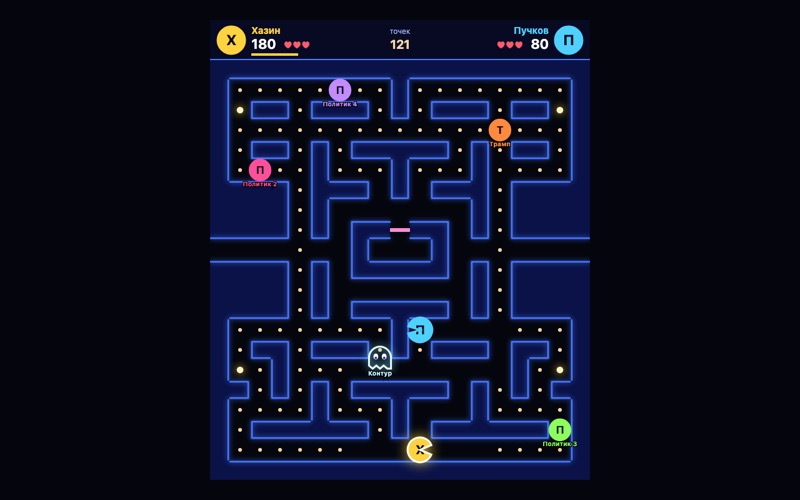
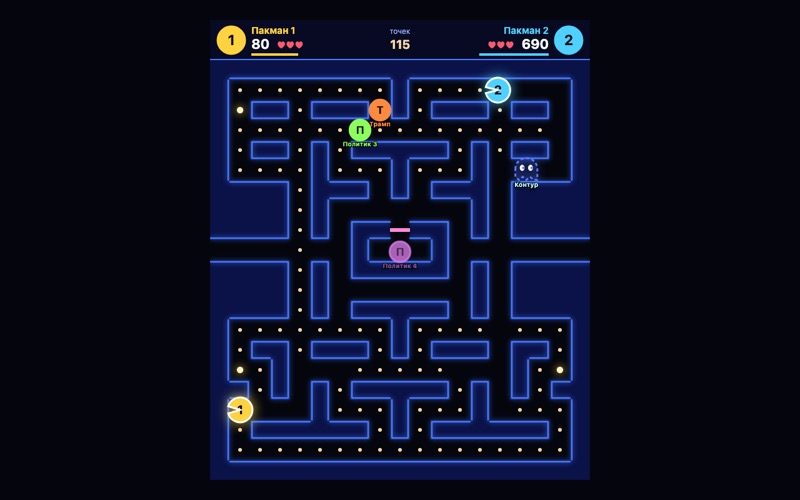
Каталог: Пакман 1 и 2

diff --git a/index.html b/index.html
@@ -228,7 +228,7 @@ footer a { color: inherit; }
       <div class="body">
         <span class="genre">Аркада · на двоих</span>
         <h2>Пакман на двоих</h2>
-        <p>Хазин против Пучкова на одной клавиатуре: ловите убегающих политиков, бегите от духа «Контур», а с силой — съешьте соперника.</p>
+        <p>Пакман 1 против Пакмана 2 на одной клавиатуре: ловите убегающих политиков, бегите от духа «Контур», а с силой — съешьте соперника.</p>
         <span class="play">Играть →</span>
       </div>
     </a>
